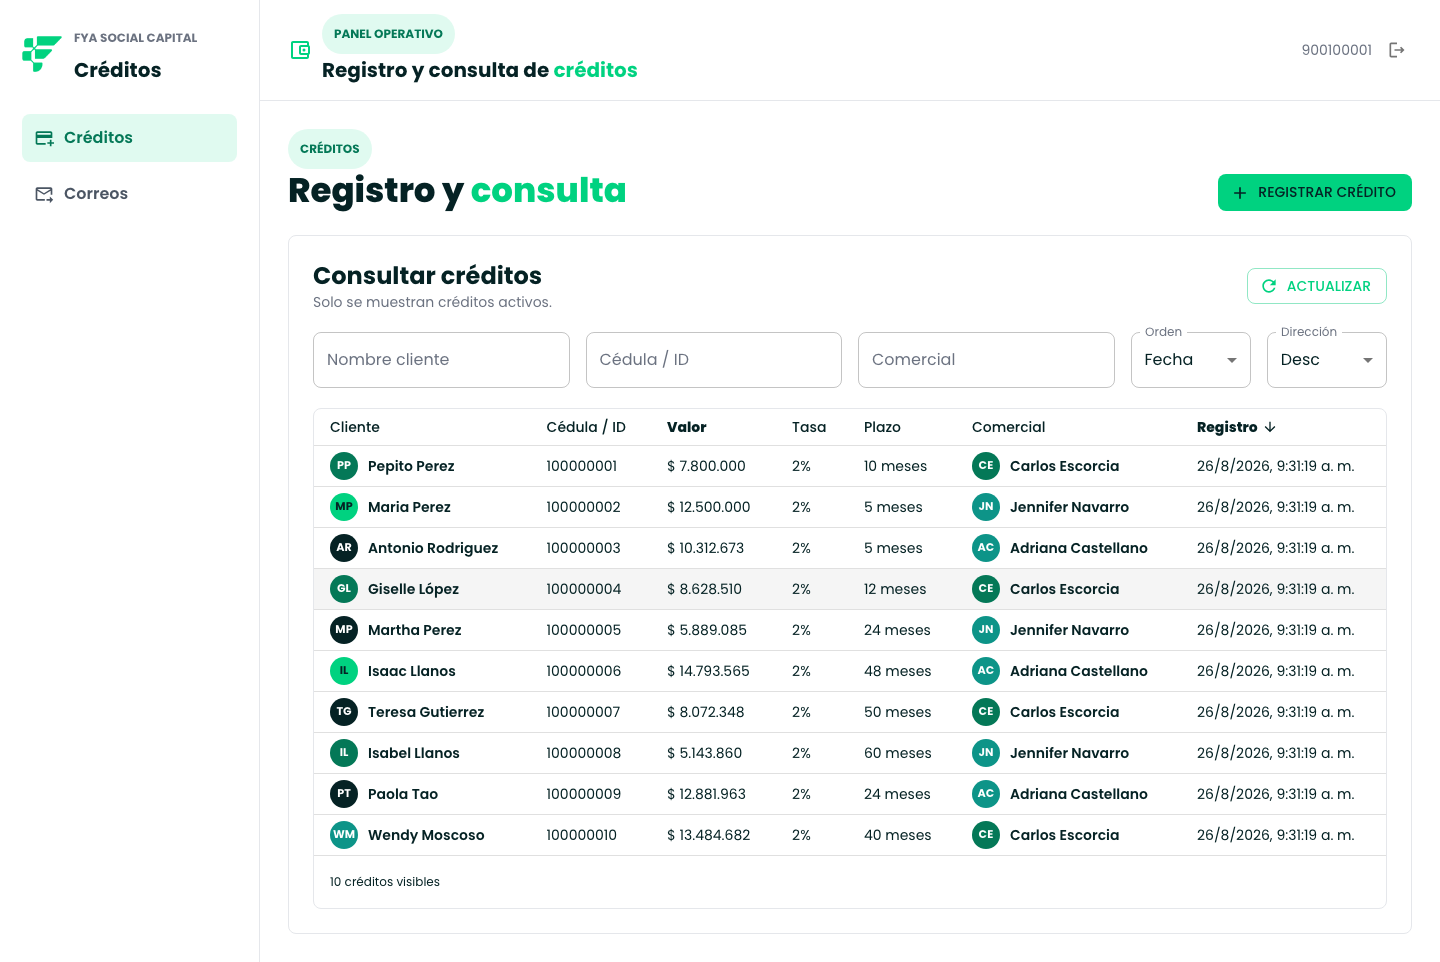
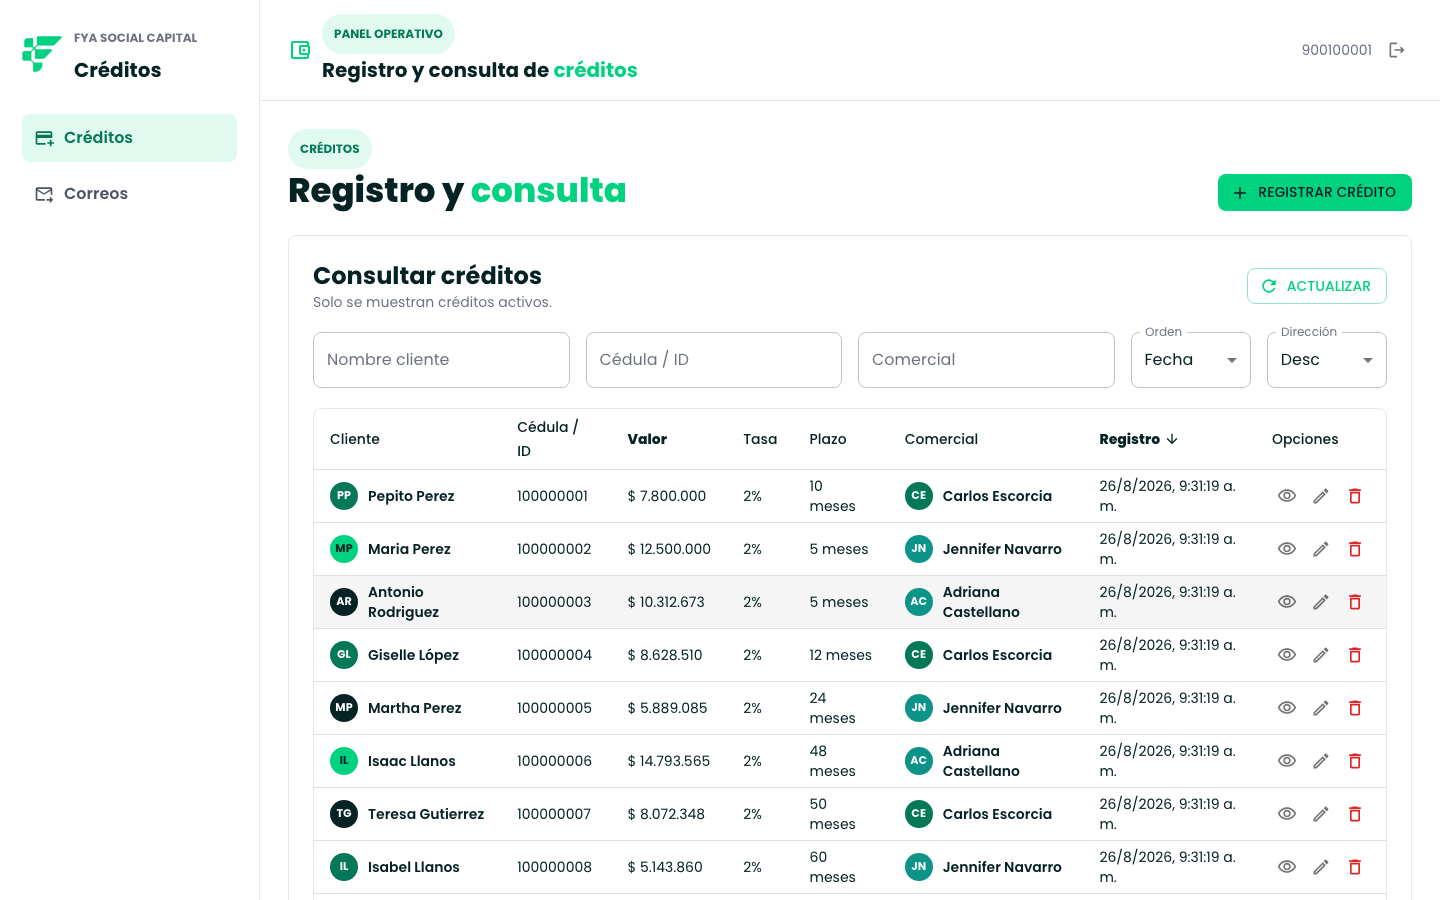
docs: refresh screenshots and trim doc language for accuracy
Updated credits-list screenshot to show the new Opciones column, added
a credit-detail screenshot, and rewrote the security/credits docs to
state current behavior plainly instead of narrating the change history.

diff --git a/document/security.md b/document/security.md
@@ -1,20 +1,19 @@
 # Security
 
 ## Sesion
-- El login guarda `token`, `tokenType`, `expiresAt` y `user` en `localStorage` (antes `sessionStorage`; se cambio porque el boton "Ver detalle completo" del correo abre una pestaña nueva sin acceso al `sessionStorage` de la pestaña donde el operador ya inicio sesion, y quedaba pidiendo login de nuevo).
-- Logout elimina la sesion local.
-- Un `401` del backend dispara `credit-auth-expired` y limpia la sesion.
-- Tradeoff aceptado: `localStorage` persiste entre reinicios del navegador y esta accesible desde cualquier pestaña del mismo origen (mayor superficie si hay XSS) a cambio de que los links externos (correo) puedan reusar la sesion activa. El JWT igual expira por `JWT_EXPIRATION_MINUTES` en el backend.
+- El login guarda `token`, `tokenType`, `expiresAt` y `user` en `localStorage`, para que links externos (ej. el botón "Ver detalle completo" del correo, que abre una pestaña nueva) reutilicen la sesión activa en vez de pedir login de nuevo.
+- Logout elimina la sesión local.
+- Un `401` del backend dispara `credit-auth-expired` y limpia la sesión.
+- El JWT expira por `JWT_EXPIRATION_MINUTES` en el backend independientemente del storage.
 
 ## Rutas
-- `/login`: publica.
-- `/credits`: protegida por `ProtectedRoute`.
+- `/login`: pública.
+- `/credits`, `/credits/:id`, `/email-jobs`: protegidas por `ProtectedRoute`. Al redirigir a `/login` se guarda la ruta original para volver ahí después de autenticar.
 
 ## Reglas
 - No guardar passwords ni secretos en frontend.
 - No llamar Firebase, Firestore ni Mailgun desde web.
-- No confiar en validacion frontend como control de seguridad; backend valida todo.
+- No confiar en validación frontend como control de seguridad; backend valida todo.
 
-## Mejora Futura: Cookie httpOnly
-Dado que este es un dominio de creditos, el nivel correcto de verdad es que el JWT viva en una cookie `httpOnly` (JS nunca puede leerla, inmune a robo por XSS) en vez de `localStorage`/`sessionStorage` (ambas leibles por cualquier script en la pagina). No se implemento en esta prueba tecnica porque requiere tocar login/CORS (`credentials: true`, origen exacto) y agregar proteccion CSRF en el backend, y cambiar eso a mitad de sesion sin poder validarlo con calma es mas riesgoso que el beneficio inmediato. Decision explicita del usuario: `localStorage` por ahora, cookie httpOnly como mejora pendiente.
-
+## Mejora Futura
+El JWT en `localStorage` es legible por cualquier script en la página; una cookie `httpOnly` lo dejaría inaccesible a JavaScript y sería el siguiente paso natural de endurecimiento. Requiere que el login emita `Set-Cookie`, CORS con `credentials: true` y protección CSRF en el backend.

diff --git a/README.md b/README.md
@@ -17,7 +17,7 @@ Credenciales de prueba:
 | `900100002` | `demo12345` | Jennifer Navarro |
 | `900100003` | `demo12345` | Adriana Castellano |
 
-Con cualquiera de esos usuarios podés registrar un crédito (con confirmación y cuota estimada), consultar/filtrar la tabla de créditos, y ver en `/email-jobs` el estado real de las notificaciones. Para correrlo en tu máquina en vez de usar la demo: [Instalación Local](#instalación-local).
+Con cualquiera de esos usuarios podés registrar un crédito (con confirmación y cuota estimada), consultar/filtrar/editar/eliminar la tabla de créditos, entrar al detalle de uno (`/credits/:id`) para exportarlo a PDF, y ver en `/email-jobs` el estado real de las notificaciones. Para correrlo en tu máquina en vez de usar la demo: [Instalación Local](#instalación-local).
 
 ## Sobre Esta Prueba Técnica
 
@@ -67,9 +67,9 @@ sequenceDiagram
 |---|---|
 | ![Modal de registro](docs/screenshots/credits-register-modal.png) | ![Modal de confirmación](docs/screenshots/credits-confirm-modal.png) |
 
-| Correos de crédito |
-|---|
-| ![Vista de correos](docs/screenshots/email-jobs.png) |
+| Detalle de crédito | Correos de crédito |
+|---|---|
+| ![Detalle de crédito](docs/screenshots/credit-detail.png) | ![Vista de correos](docs/screenshots/email-jobs.png) |
 
 ## Stack
 
@@ -78,6 +78,7 @@ sequenceDiagram
 | UI | React 18.3.1, MUI |
 | Build | Vite |
 | Ruteo | React Router |
+| PDF | jsPDF (generado 100% en el cliente, sin backend) |
 | Lenguaje | Solo JavaScript (sin TypeScript, sin paso de compilación de tipos) |
 
 ## Instalación Local

diff --git a/pages/credits/README.md b/pages/credits/README.md
@@ -48,10 +48,10 @@
 - El comercial se toma del usuario autenticado; no se muestra ni es editable en el formulario porque ya esta implicito en la sesion. Solo aparece como referencia en el resumen de `CreditConfirmDialog.jsx`.
 
 ## Detalle, Edicion Y Borrado
-- `CreditDetailPage.jsx` carga el credito con `GET /api/v1/credits/{id}` y muestra cliente, condiciones, cuota/total estimados y fechas.
+- La columna "Opciones" de la tabla (`CreditsPage.jsx`) da acceso directo a ver, editar y eliminar sin salir del listado; el detalle completo vive en `/credits/:id` (`CreditDetailPage.jsx`, `GET /api/v1/credits/{id}`).
 - "Editar" reabre `CreditForm.jsx` en modo `edit` (mismo formulario y confirmacion que el registro, con copy ajustado) y guarda con `PUT /api/v1/credits/{id}`. El comercial original no cambia.
-- "Eliminar" pide confirmacion en un dialogo propio y llama a `DELETE /api/v1/credits/{id}`; al confirmar vuelve al listado.
-- "Exportar PDF" genera un certificado de una pagina con el mismo estilo de marca (verde `#00d280`, tinta `#052224`, logo) via `creditPdf.js` (jsPDF), 100% en el cliente.
+- "Eliminar" pide confirmacion en `DeleteCreditDialog.jsx` (compartido entre listado y detalle) y llama a `DELETE /api/v1/credits/{id}`.
+- "Exportar PDF" (solo en el detalle) genera un certificado de una pagina con el mismo estilo de marca (verde `#00d280`, tinta `#052224`, logo) via `creditPdf.js` (jsPDF), 100% en el cliente.
 
 ## Referencias
 - `document/module-map.md`
